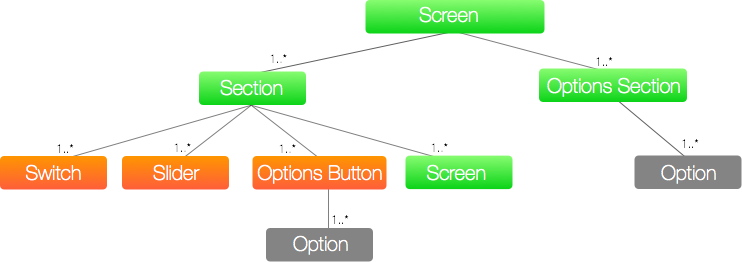
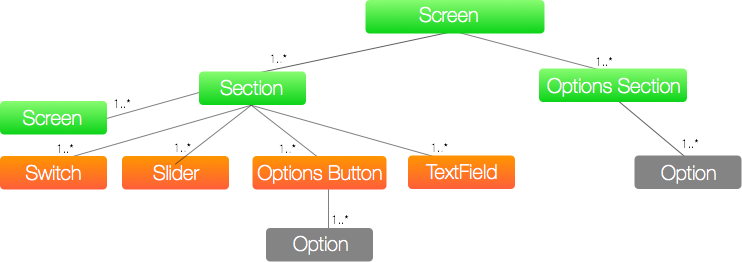
README: Updated documentation (Issue-3)
Added description of newly added editable setting (TextField)

diff --git a/README.md b/README.md
@@ -209,6 +209,27 @@ Arguments:
 - _icon_: Optional icon to be set at the left side of the cell
 - _optionsClosure_: Block returning an array of Options from which selection is possible
 
+## TextField
+
+![SwiftySettings TextField](https://github.com/tgebarowski/SwiftySettings/blob/master/doc/SwiftySettings-TextField.png)
+
+TextField represents a UITableViewCell with UITextField for editable content.
+
+```swift
+init(key: String,
+     title: String,
+     secureTextEntry: Bool = false,
+     defaultValue: String = "",
+     valueChangedClosure: ValueChanged? = nil)
+```
+
+Arguments:
+
+- _key_: Storage key used to load and save currently selected Option
+- _title_: Title for the OptionsButton cell
+- _secureTextEntry_: Optional flag indicating if TextField has secured content (i.e. password)
+- _valueChangedClosure_: Optional closure invoked when value is changed
+
 ## Screen
 
 When added to a Section, Screen object will be mapped to UITableViewCell with UILabel set to Screen title.
